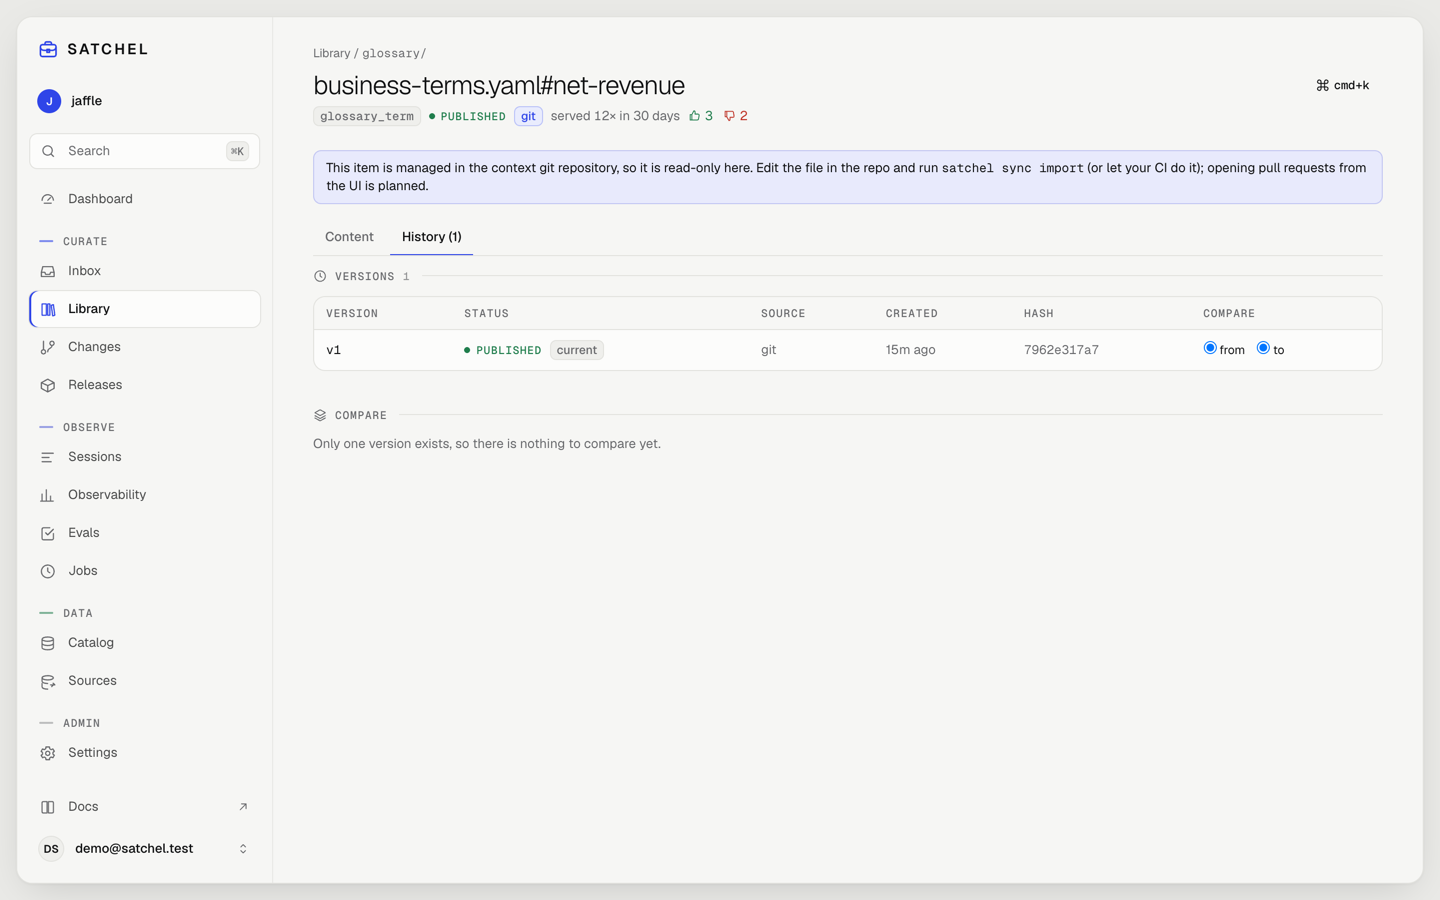
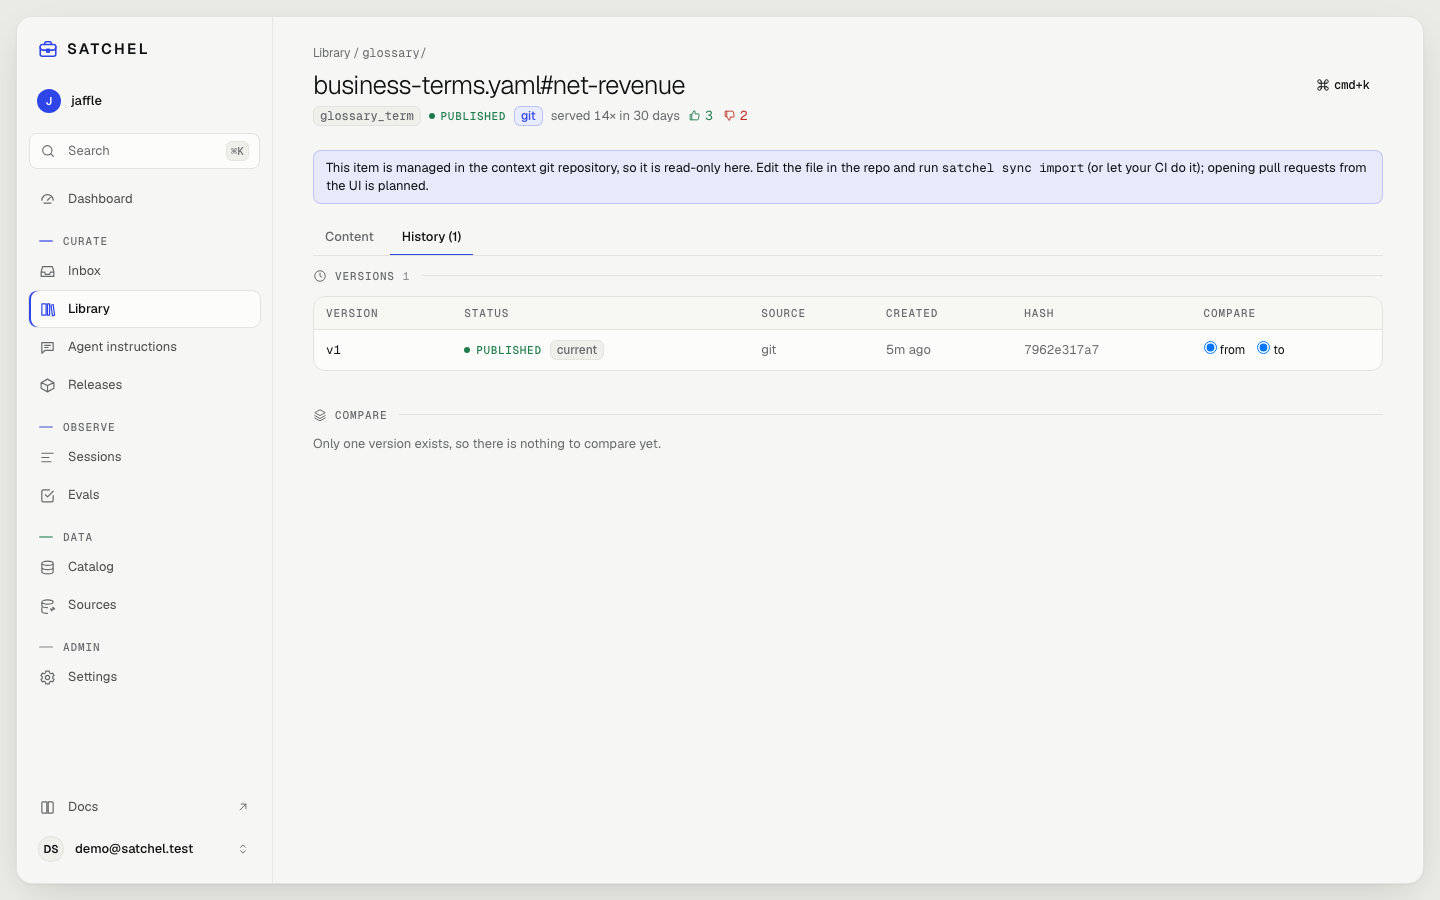
Prepare the v0.4.0 release
Members, agent instructions, questions within a session, the sign-in
page, the shorter sidebar, no repeated result tables in Claude, and the
plainer setup dialogs since 0.3.0.

Adds docs/releases/0.4.0.md with upgrade notes for migrations 0017 (the
session_turn backfill) and 0018, and the /auth/login change. Bumps
server/pyproject.toml and the Helm chart to 0.4.0 and moves the image,
chart, PyPI and Action pins in the deploy docs and Terraform examples to
0.4.0. Recaptures every screenshot in docs/screenshots/ (1440x900, light
and dark) for the new navigation.

diff --git a/docs/releases/0.4.0.md b/docs/releases/0.4.0.md
@@ -1,0 +1,110 @@
+# Satchel 0.4.0
+
+Admins manage who can use a workspace from the UI, curators write instructions that shape how
+agents work, and a session with several questions now reads as one question at a time. Sign-in
+has its own page, and the sidebar is shorter.
+
+> **Status:** pre-alpha. Expect breaking changes between 0.x releases. This release adds two
+> migrations, one of which backfills existing sessions: see [Upgrading from 0.3.0](#upgrading-from-030).
+
+## Install
+
+```bash
+uv tool install satchel-server     # or: uv tool upgrade satchel-server
+satchel init --example jaffle
+satchel up
+```
+
+Container image and Helm chart:
+
+```bash
+docker pull ghcr.io/getsatchel/satchel:0.4.0
+helm install satchel oci://ghcr.io/getsatchel/charts/satchel --version 0.4.0 -n satchel --create-namespace -f my-values.yaml
+```
+
+This release ships with `satchel-adapter-sdk` 1.2.1 (IR 1.0.0).
+
+## New
+
+- **Members.** **Settings > Members** (admins) lists everyone in the workspace with their role and
+  last activity.
+  - **Invite** people by email with a role. An invite is a member with an email and no sign-in
+    yet; their first sign-in with that verified email links the account.
+  - Change a member's **role**, **deactivate** or **reactivate** them, and remove an invite nobody
+    has used. A deactivated member's tokens, sessions and sign-ins are refused until they are
+    reactivated; their sessions, feedback and context changes stay.
+  - **Sign-in** on the same tab sets whether people who were not invited are refused or join as
+    explorers, optionally only from some email domains (the setting `satchel workspace auth`
+    changes).
+  - You cannot change your own role or deactivate yourself, and a workspace always keeps one
+    active admin.
+  - API: `GET`/`POST /v1/members`, `PATCH`/`DELETE /v1/members/{id}`, `PUT /v1/members/sign-in`.
+- **Agent instructions.** **Curate > Agent instructions** is where curators write how agents should
+  work in this workspace: tone, when to prefer a metric, caveats to always mention, how to present
+  results.
+  - It is a versioned item (`agent.md`, also at the root of a context repo), so it goes through
+    draft, preview, the eval gate and publish like any context, and can be rolled back.
+  - Agents receive the published text from `start_analysis` (`agent_instructions`) and at the top
+    of every context pack, tagged `[ctx:agent.md@vN]`. Satchel's own workflow still applies, and
+    wins where the two conflict.
+  - Only people write it: agents cannot propose it and curation never drafts it.
+- **Questions within a session.** Agents often keep one session for a whole conversation. Satchel
+  now groups a session's tool calls into one **turn** per question (the `session_turn` table).
+  - **Sessions** lists one row per question; switch to **Conversations** for one row per session.
+  - The session inspector steps through a conversation's questions and shows each one's answer,
+    tool calls, signals and feedback.
+  - Signals record the question they came from, so curation clusters them with that question.
+  - `GET /v1/turns` lists questions; session details include their turns.
+- **Sign-in page.** `/auth/login` is a page with one "Sign in with …" button instead of an
+  immediate redirect to the identity provider.
+  - Signing out shows "You're signed out." instead of sending you back to the provider.
+  - Without an identity provider, the page says which `SATCHEL_OIDC_*` settings to set.
+  - A refused sign-in names the account that signed in and says to ask an admin for an invite.
+  - `SATCHEL_OIDC_DISPLAY_NAME` names the provider on the button; otherwise it is guessed from the
+    issuer (Google, Microsoft, Okta, Auth0, Cognito, Keycloak).
+
+## Changes
+
+- **Shorter sidebar.** Nine entries instead of twelve:
+  - **Releases** has two tabs: Changes (unpublished changes, preview, evals, publish) and History.
+  - **Sessions** has a **Usage** tab (formerly Observability).
+  - **Jobs** is a tab under **Settings**, for curators and admins.
+  - The old addresses redirect: `/changes` to `/releases`, `/observability` to
+    `/sessions?tab=usage`, `/jobs` to `/settings?tab=jobs`. Query strings are kept, so preview
+    links from the GitHub Action still work.
+- **No repeated result tables.** When a query result is shown to the user as an interactive Satchel
+  table, `run_sql`, `query_metrics` and `get_result` tell the agent not to repeat its rows, and the
+  workflow instructions say the same. Answers in Claude no longer show the widget and then the
+  same table again.
+- **Plainer setup dialogs.** Adding a warehouse connection is one form; adding a source is three
+  short steps. A new connection offers **Crawl**; a new source opens its page. The Dashboard lists
+  only the setup steps that are left.
+- **Curator UI.** Dialogs are bottom sheets on phones and move focus to their first field; the UI
+  honours reduced motion. `ui/DESIGN.md` is rewritten to describe the UI as built.
+- **Server pages.** Missing UI files return 404 instead of the app page, and the favicon's URL is
+  hashed so a new icon is picked up.
+- **Docs.** Every screenshot in `docs/screenshots/` is recaptured for the new navigation.
+
+## Upgrading from 0.3.0
+
+**Back up the database first**, as for any upgrade.
+
+```bash
+uv tool upgrade satchel-server
+satchel db upgrade
+```
+
+The migrations are `0017` (the `session_turn` table, `tool_call.turn_id` and `signal.turn_id`) and
+`0018` (`app_user.disabled_at`). Run `satchel db upgrade`, or let the Helm chart's migration job
+run, before starting the new version.
+
+- `0017` splits every existing session into questions, reading each session's tool calls. On a
+  large database it takes longer than the usual migration.
+- Signals recorded before the upgrade are not assigned a question; curation uses their session's
+  first question for them, as before.
+
+After the upgrade:
+
+- Links or bookmarks to `/auth/login` show the sign-in page; people click **Sign in** once more.
+  Scripts that relied on the redirect should use `/auth/login/start` (same parameters).
+- Bookmarks to `/changes`, `/observability` and `/jobs` redirect to their new tabs.

diff --git a/docs/deploy/container.md b/docs/deploy/container.md
@@ -1,6 +1,6 @@
 # Running Satchel from the container image
 
-One image, `ghcr.io/getsatchel/satchel`, runs every role; the command picks the role. Tags: for each `v*` release, the version (`0.3.0`), the minor line (`0.3`) and `latest`; for every push to `main`, `main` and `sha-<short>`. Pin a release version in production; `main` moves with every merge. It runs as uid/gid 10001 and needs no writable root filesystem when `SATCHEL_RESULT_DIR` points at `gs://`, `s3://` or a mounted volume. It includes the `gcp` and `aws` extras (google-cloud-storage, boto3).
+One image, `ghcr.io/getsatchel/satchel`, runs every role; the command picks the role. Tags: for each `v*` release, the version (`0.4.0`), the minor line (`0.4`) and `latest`; for every push to `main`, `main` and `sha-<short>`. Pin a release version in production; `main` moves with every merge. It runs as uid/gid 10001 and needs no writable root filesystem when `SATCHEL_RESULT_DIR` points at `gs://`, `s3://` or a mounted volume. It includes the `gcp` and `aws` extras (google-cloud-storage, boto3).
 
 ## Build
 
@@ -25,9 +25,9 @@ docker build -f deploy/docker/Dockerfile --build-arg BAKE_EMBEDDINGS=false -t sa
 Example, local:
 
 ```bash
-docker run --rm -e SATCHEL_DATABASE_URL=... ghcr.io/getsatchel/satchel:0.3.0 db upgrade
-docker run --rm -e SATCHEL_DATABASE_URL=... ghcr.io/getsatchel/satchel:0.3.0 workspace create main --name Main --admin-email you@example.com
-docker run -p 8080:8080 -e SATCHEL_DATABASE_URL=... -e SATCHEL_PUBLIC_URL=http://localhost:8080 ghcr.io/getsatchel/satchel:0.3.0
+docker run --rm -e SATCHEL_DATABASE_URL=... ghcr.io/getsatchel/satchel:0.4.0 db upgrade
+docker run --rm -e SATCHEL_DATABASE_URL=... ghcr.io/getsatchel/satchel:0.4.0 workspace create main --name Main --admin-email you@example.com
+docker run -p 8080:8080 -e SATCHEL_DATABASE_URL=... -e SATCHEL_PUBLIC_URL=http://localhost:8080 ghcr.io/getsatchel/satchel:0.4.0
 ```
 
 ## Probes

diff --git a/docs/install.md b/docs/install.md
@@ -9,7 +9,7 @@ uv tool install satchel-server
 satchel version
 ```
 
-The PyPI package is `satchel-server` and includes the built curator UI. The command it installs is `satchel`. The PyPI project named `satchel` is unrelated, so don't install that one. To pin a release, use `uv tool install "satchel-server==0.3.0"` ([release notes](https://github.com/getsatchel/satchel/releases)). To run the latest commit on `main`, install from git: `uv tool install "satchel-server @ git+https://github.com/getsatchel/satchel#subdirectory=server"`. A git install has no built UI. This installs a stable copy at `~/.local/bin/satchel`, independent of any checkout. Do not point Claude at a development checkout (`uv run --project`): uncommitted code and an un-migrated database break every call. `satchel connect` refuses to do that unless you pass `--dev`.
+The PyPI package is `satchel-server` and includes the built curator UI. The command it installs is `satchel`. The PyPI project named `satchel` is unrelated, so don't install that one. To pin a release, use `uv tool install "satchel-server==0.4.0"` ([release notes](https://github.com/getsatchel/satchel/releases)). To run the latest commit on `main`, install from git: `uv tool install "satchel-server @ git+https://github.com/getsatchel/satchel#subdirectory=server"`. A git install has no built UI. This installs a stable copy at `~/.local/bin/satchel`, independent of any checkout. Do not point Claude at a development checkout (`uv run --project`): uncommitted code and an un-migrated database break every call. `satchel connect` refuses to do that unless you pass `--dev`.
 
 Hacking on Satchel itself? Use `cd server && uv sync` and `uv run satchel ...`, and see the README.
 

diff --git a/docs/deploy/eks.md b/docs/deploy/eks.md
@@ -40,7 +40,7 @@ Test locally: `scripts/floci-aws-e2e.sh` applies this stack against the floci AW
 - A private, versioned S3 bucket for Terraform state (see `examples/eks/backend.tf.example`). State holds the generated database passwords, so restrict access to it.
 - If you restrict the Kubernetes API (`cluster_public_access_cidrs`), include the address you run Terraform from. Terraform's Kubernetes and Helm providers reach the endpoint from there.
 
-The image defaults to `ghcr.io/getsatchel/satchel:<tag>`. Nodes pull it directly through the NAT gateway. To pull from your own ECR instead, set `helm_extra_values = { image = { repository = "ACCOUNT.dkr.ecr.REGION.amazonaws.com/satchel", tag = "0.3.0" } }`.
+The image defaults to `ghcr.io/getsatchel/satchel:<tag>`. Nodes pull it directly through the NAT gateway. To pull from your own ECR instead, set `helm_extra_values = { image = { repository = "ACCOUNT.dkr.ecr.REGION.amazonaws.com/satchel", tag = "0.4.0" } }`.
 
 ## 2. Create the OIDC client
 
@@ -152,7 +152,7 @@ The ALB idle timeout is raised to an hour so MCP server-sent-event streams are n
 
 ## 9. Upgrades
 
-1. Set `image_tag = "0.3.0"`.
+1. Set `image_tag = "0.4.0"`.
 2. Run `terraform apply`. The Helm pre-upgrade hook migrates first. If it fails, `atomic = true` rolls the release back and the old pods keep serving.
 3. Chart-only changes apply the same way.
 

diff --git a/docs/deploy/cloud-run.md b/docs/deploy/cloud-run.md
@@ -96,7 +96,7 @@ The MCP endpoint is `<url>/mcp` (`terraform output mcp_url`). Authentication is 
 
 ## 8. Upgrades
 
-1. Pick the new tag, set `image_tag = "0.3.0"`.
+1. Pick the new tag, set `image_tag = "0.4.0"`.
 2. `gcloud run jobs execute satchel-migrate ...` is run for you if `run_migrations_on_apply = true`; otherwise it must run **before** the service rolls out. Do it with the new image: `terraform apply -target=module.cloud_run.google_cloud_run_v2_job.this` first (this updates the jobs to the new image), run the migrate command, then a full `terraform apply`.
 3. If you forget, the new revision cannot pass its `/readyz` startup probe (schema not at head), so Cloud Run keeps serving the old revision and the apply fails without downtime. Run the migration and apply again.
 

diff --git a/docs/README.md b/docs/README.md
@@ -55,7 +55,7 @@ Configure and operate it:
 ## 5. Design and contributing
 
 - [Master architecture diagram](architecture/system.md)
-- [Release notes](releases/0.3.0.md) (all releases: [GitHub releases](https://github.com/getsatchel/satchel/releases))
+- [Release notes](releases/0.4.0.md) (all releases: [GitHub releases](https://github.com/getsatchel/satchel/releases))
 - [Contributing](https://github.com/getsatchel/satchel/blob/main/CONTRIBUTING.md)
 
 ## Working on these docs

diff --git a/docs/deploy/helm.md b/docs/deploy/helm.md
@@ -5,7 +5,7 @@ every role: `satchel serve api` (UI, REST, MCP at `/mcp`, OAuth/OIDC on one port
 database commands. Everything is stateless; sessions and OAuth state live in Postgres, so replicas are safe.
 
 ```
-helm install satchel oci://ghcr.io/getsatchel/charts/satchel --version 0.3.0 \
+helm install satchel oci://ghcr.io/getsatchel/charts/satchel --version 0.4.0 \
   -n satchel --create-namespace -f my-values.yaml
 ```
 

diff --git a/docs/deploy/gke.md b/docs/deploy/gke.md
@@ -98,7 +98,7 @@ The Gateway backend timeout is raised to an hour so MCP server-sent-event stream
 
 ## 8. Upgrades
 
-1. Set `image_tag = "0.3.0"`.
+1. Set `image_tag = "0.4.0"`.
 2. `terraform apply`. The Helm pre-upgrade hook migrates first; if it fails, `atomic = true` rolls the release back and the old pods keep serving.
 3. Chart-only changes (a new chart version in the repository) apply the same way.
 

diff --git a/docs/integrations/github-action.md b/docs/integrations/github-action.md
@@ -38,7 +38,7 @@ jobs:
     runs-on: ubuntu-latest
     steps:
       - uses: actions/checkout@v4
-      - uses: getsatchel/satchel/action@v0.3.0
+      - uses: getsatchel/satchel/action@v0.4.0
         with:
           url: https://satchel.example.com
           path: context
